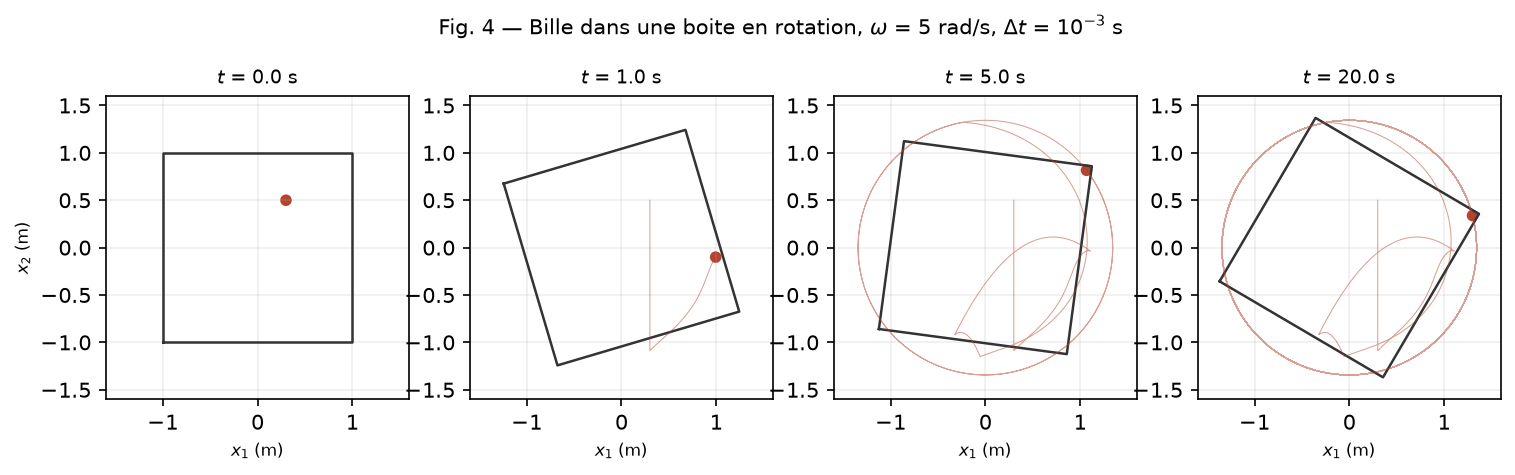
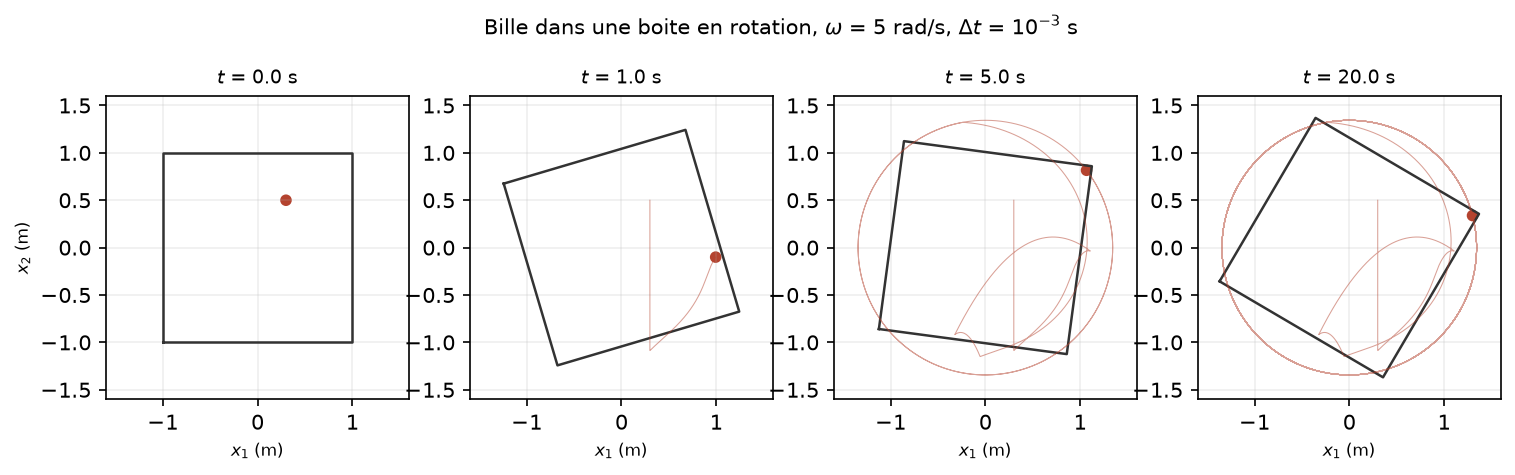
docs(figures): retirer les numéros internes des figures et aligner le manifeste sur le rapport (#146)
Les figures ne portent plus de numéro interne (« Fig. N ») dans leur titre : LaTeX les numérote. Le manifeste dit ce que le rapport reprend vraiment : figures 2, 5 et 6 hors rapport, figure 7 en annexe A3 ; majuscules rendues aux docstrings. Figures 1, 3, 4 et 7 régénérées, mêmes données. Revue : Shaleena.

Changed region(s): [[0.2792, 0.0295, 0.7446, 0.0884]]

diff --git a/src/viscocrowd/viz/figures.py b/src/viscocrowd/viz/figures.py
@@ -45,7 +45,7 @@ def _enregistrer(fig: plt.Figure, destination: Path, nom: str) -> Path:
 
 
 def figure_respect_contrainte(destination: Path) -> Path:
-    """Fig. 1 — le depassement de contrainte reste nul a la precision machine.
+    """Le depassement de contrainte reste nul a la precision machine.
 
     Trace pour plusieurs pas de temps, y compris un dt volontairement grossier :
     le confinement ne depend pas de dt, parce que la position est projetee a
@@ -71,8 +71,7 @@ def figure_respect_contrainte(destination: Path) -> Path:
     # l'arrondi pres : ce sont les plateaux a 1e-16 m.
     ax.set_ylabel(r"$\left|\max_i \left( x \cdot n_i - (R-r) \right)\right|$  (m)")
     ax.set_title(
-        "Fig. 1 — Respect de la contrainte de confinement\n"
-        "$R$ = 1 m, $r$ = 0,05 m, $\\omega$ = 1 rad/s",
+        "Respect de la contrainte de confinement\n$R$ = 1 m, $r$ = 0,05 m, $\\omega$ = 1 rad/s",
         fontsize=10,
     )
     ax.legend()
@@ -80,7 +79,7 @@ def figure_respect_contrainte(destination: Path) -> Path:
 
 
 def figure_energie(destination: Path) -> Path:
-    """Fig. 2 — l'energie mecanique decroit par sauts, en boite fixe.
+    """L'energie mecanique decroit par sauts, en boite fixe.
 
     On se place a omega = 0 : aucune paroi ne travaille, donc l'energie ne peut
     que decroitre. En vol libre elle baisse de (1/2) dt^2 |g|^2 par pas, et
@@ -95,7 +94,7 @@ def figure_energie(destination: Path) -> Path:
     ax.set_xlabel("temps $t$ (s)")
     ax.set_ylabel("energie mecanique $E$ (J)")
     ax.set_title(
-        "Fig. 2 — Dissipation de l'energie par les chocs mous\n"
+        "Dissipation de l'energie par les chocs mous\n"
         "boite fixe ($\\omega$ = 0), $m$ = 1 kg, $\\Delta t$ = $10^{-3}$ s",
         fontsize=10,
     )
@@ -103,7 +102,7 @@ def figure_energie(destination: Path) -> Path:
 
 
 def figure_entrainement(destination: Path) -> Path:
-    """Fig. 3 — l'entrainement solide n'a lieu qu'en regime centrifuge.
+    """L'entrainement solide n'a lieu qu'en regime centrifuge.
 
     Resultat non trivial : le critere de validation du sujet (« la bille se
     stabilise dans un coin et tourne solidairement avec la boite ») n'est
@@ -131,7 +130,7 @@ def figure_entrainement(destination: Path) -> Path:
     ax.set_xlabel("temps $t$ (s)")
     ax.set_ylabel(r"$\left| v - \omega x^{\perp} \right|$  (m/s)")
     ax.set_title(
-        "Fig. 3 — Convergence vers la vitesse d'entrainement du solide\n"
+        "Convergence vers la vitesse d'entrainement du solide\n"
         "$R$ = 1 m, $r$ = 0,05 m, $\\Delta t$ = $10^{-3}$ s",
         fontsize=10,
     )
@@ -140,7 +139,7 @@ def figure_entrainement(destination: Path) -> Path:
 
 
 def figure_trajectoire(destination: Path) -> Path:
-    """Fig. 4 — instantanes de la configuration a des instants choisis."""
+    """Instantanes de la configuration a des instants choisis."""
     resultat = simuler_bille(ParametresBille(omega=5.0, dt=1e-3, duree=20.0))
     instants = [0.0, 1.0, 5.0, 20.0]
 
@@ -179,7 +178,7 @@ def figure_trajectoire(destination: Path) -> Path:
 
     axes[0].set_ylabel("$x_2$ (m)", fontsize=8)
     fig.suptitle(
-        "Fig. 4 — Bille dans une boite en rotation, $\\omega$ = 5 rad/s, $\\Delta t$ = $10^{-3}$ s",
+        "Bille dans une boite en rotation, $\\omega$ = 5 rad/s, $\\Delta t$ = $10^{-3}$ s",
         fontsize=10,
     )
     return _enregistrer(fig, destination, "fig04_trajectoire")
@@ -194,7 +193,7 @@ CONVERGENCE_DT = (4e-3, 2e-3, 1e-3, 5e-4, 2.5e-4)
 
 
 def figure_tassement(destination: Path) -> Path:
-    """Fig. 5 — instantanes de l'empilement de 36 disques.
+    """Instantanes de l'empilement de 36 disques.
 
     Le jalon 2 n'avait aucune figure : il se validait par des tableaux de
     nombres. Or le reproche fait a une simulation de foule est d'abord visuel —
@@ -246,7 +245,7 @@ def figure_tassement(destination: Path) -> Path:
     axes[0].set_ylabel("$x_2$ (m)", fontsize=8)
     recouvrement = resultat.recouvrement_max()
     fig.suptitle(
-        f"Fig. 5 — Empilement de {parametres.n_agents} disques de "
+        f"Empilement de {parametres.n_agents} disques de "
         f"{parametres.rayon * 100:.0f} cm, $\\Delta t$ = "
         f"{TASSEMENT_DT:.0e} s, graine {parametres.graine}\n"
         f"recouvrement residuel maximal sur toute la simulation : "
@@ -313,7 +312,7 @@ def _hauteur_finale_tassement(dt: float) -> float:
 
 
 def figure_convergence_dt(destination: Path) -> Path:
-    """Fig. 6 — ordre de convergence en pas de temps, avec et sans contacts.
+    """Ordre de convergence en pas de temps, avec et sans contacts.
 
     Une simulation qui ne converge pas en dt ne mesure rien : ses resultats
     dependent d'un parametre numerique et non de la physique. Cette figure
@@ -398,7 +397,7 @@ def figure_convergence_dt(destination: Path) -> Path:
         axe.set_xlabel(r"$\Delta t$ (ms)")
 
     fig.suptitle(
-        "Fig. 6 — Convergence en pas de temps : ordre 1 sans contact, "
+        "Convergence en pas de temps : ordre 1 sans contact, "
         "limite par les rearrangements de contacts avec",
         fontsize=10,
     )
@@ -409,7 +408,7 @@ def figure_convergence_dt(destination: Path) -> Path:
 def figure_comparaison_mouille(
     resultats: dict[str, np.ndarray], n_agents: int, destination: Path
 ) -> Path:
-    """Fig. 7 — effet separe des parametres du sol mouille, sur le banc de couloir.
+    """Effet separe des parametres du sol mouille, sur le banc de couloir.
 
     Hors de `TOUTES_LES_FIGURES` : ce n'est pas une validation du moteur, et elle
     demande une trentaine de simulations (`viscocrowd comparer-mouille`).
@@ -437,7 +436,7 @@ def figure_comparaison_mouille(
     axes[0].set_yticks(range(len(noms)), [LIBELLES.get(nom, nom) for nom in noms])
     axes[0].invert_yaxis()
     fig.suptitle(
-        f"Fig. 7 — Sol mouillé, un paramètre à la fois : couloir, {n_agents} agents, "
+        f"Sol mouillé, un paramètre à la fois : couloir, {n_agents} agents, "
         f"{n_graines} graines (moyenne ± écart-type)",
         fontsize=10,
     )
@@ -553,7 +552,7 @@ def produire_toutes(destination: Path) -> list[Path]:
 
 
 def figure_diagramme_fondamental(series: dict, classes, destination: Path) -> Path:
-    """Fig. 8 — diagramme fondamental devant le goulot E0, face a Weidmann (M8, #124).
+    """Diagramme fondamental devant le goulot E0, face a Weidmann (M8, #124).
 
     Hors de `TOUTES_LES_FIGURES` : elle demande une campagne E0
     (`viscocrowd diagramme-goulot`). Les points gris sont les instants mesures ; les
